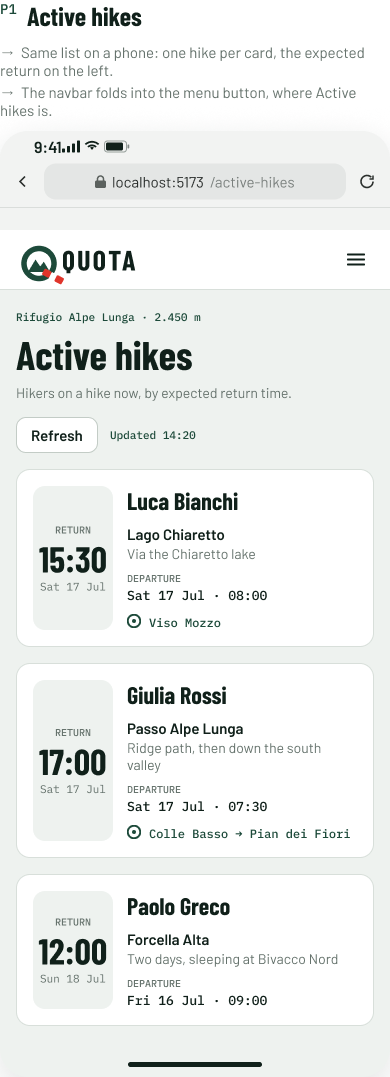
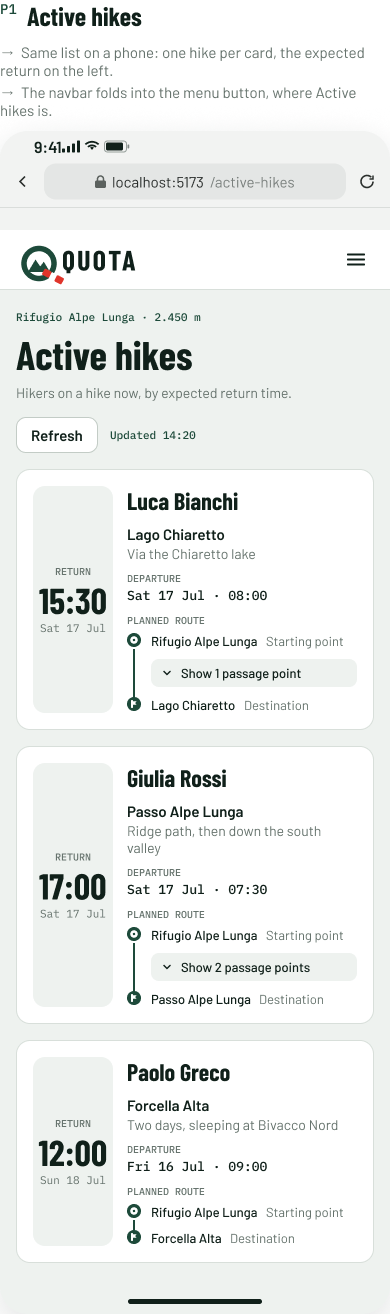
feat: modified view on passage points error message now outside of card

diff --git a/docs/mockups/active-hikes/README.md b/docs/mockups/active-hikes/README.md
@@ -9,7 +9,7 @@ One new page, **Active hikes**, lists the hikes in progress of all hikers. It is
 **Figma (source of truth):** page *MH-21 View active hikes* in [Mountain Hut – Mockups (Team 16)](https://www.figma.com/design/VlTombwHX1DQ7yB2x4U5Yx?node-id=786-23191). Every element is an instance from the *Components* page. Most of them are already used by the [slots mockup](../slots/README.md), the [register a hike mockup](../register-a-hike/README.md) and the [booking](../booking/README.md) mockup: button, alert, trail blaze, route icon and the phone bars. This story adds:
 
 - *Navbar / Staff with Active hikes*: the staff navbar with a fourth link, **Active hikes**, after *The hut*, *Slots & tables* and *Reservations*. Variants: `Role` (Employee, Warden). It is a separate navbar for this page: the shared *Navbar / Logged in* is not changed.
-- *Active hike card*: one hike of the list. Variants: `Size` (Desktop, Phone). It shows the expected return on the left, then the hiker, the destination, the route, the departure and the passage points.
+- *Active hike card*: one hike of the list. Variants: `Size` (Desktop, Phone) and `State` (Collapsed, Expanded). It shows the expected return on the left, then the hiker, the destination, the route, the departure and the **planned route**: the start, the destination and, between them, a line *Show N passage points* that opens the list. It is the same planned route as on the [My hikes](../register-a-hike/README.md) card of the hiker.
 
 Same QUOTA brand, colours and fonts.
 
@@ -25,7 +25,7 @@ Everything shown comes from the story or from the product owner's answers. Nothi
 | Product owner, [#53](https://github.com/SE2-Polito/AY26-27-Mountain-Hut/issues/53) | A hike is considered started at its planned departure time. A hiker who decides not to leave declares the hike finished with MH-22, even before it starts. |
 | Team decision (not yet confirmed by the product owner) | **Active** means: from the planned departure time until the hiker declares the hike finished. A hike that has not started is not listed. A hike past its expected return time stays listed until it is finished. |
 | Team decision (not yet confirmed by the product owner) | The hikes are listed by expected return time, the soonest first. |
-| Team decision (not yet confirmed by the product owner) | Each hike shows the hiker's name, the expected return (time and day), the destination, the route, the departure and the passage points in order. A hike without passage points shows none. |
+| Team decision (not yet confirmed by the product owner) | Each hike shows the hiker's name, the expected return (time and day), the destination, the route, the departure and the planned route (start, passage points, destination), with the passage points hidden behind a line *Show N passage points*, as on the hiker's page. A hike without passage points shows none. |
 | Team decision (not yet confirmed by the product owner) | The warden is an extension of the employee (as on [Slots & tables](../slots/README.md)): the same page, with the same navbar link. The first part only for the warden is MH-25. The page is reached from a new navbar link, *Active hikes*, after *Reservations*. |
 | Team decision (not yet confirmed by the product owner) | The list **refreshes by itself every 5 minutes** and has a **Refresh** button that updates it at once. A line says when it was last updated. A failed refresh keeps the list as it was. |
 | Team decision | The page is read only. Marking a hike as completed by the staff (MH-30), the alerts for late hikers (MH-24, MH-26) and the emergency details (MH-25) are other stories. |
@@ -36,8 +36,8 @@ Everything shown comes from the story or from the product owner's answers. Nothi
 2. Each hike is a card. On the left the **expected return**: the time, and under it the day. On the right the hiker's name, the destination with the route, the departure (day and time) and the passage points in order, joined by arrows.
 3. A hike stays on the list until the hiker declares it finished with MH-22. So a hike that is past its expected return time is still listed, in its place by expected return time.
 4. With no hike in progress, the page says so (screen 2).
-5. A hike with many passage points shows all of them, in a line that wraps. The card grows and nothing is cut (screen 3).
-6. If the list cannot be loaded, a red note says so (screen 4).
+5. The passage points of a hike are hidden behind *Show N passage points*, between the start (the hut) and the destination. Pressing it opens the whole list, in order, one under the other (screen 3), and the line says *Hide N passage points*. With many points the card grows only while the list is open.
+6. If the list cannot be loaded, a red note says so (screen 4). The note stands on the page, not inside a white card.
 
 The only button is **Refresh**, next to the time of the last update (*Updated 14:20*). The list also refreshes by itself every 5 minutes, and the time of the update changes with it. If a refresh fails, the list stays as it was and the red note of screen 4 is shown above it. The cards have no buttons.
 
@@ -47,7 +47,7 @@ The only button is **Refresh**, next to the time of the last update (*Updated 14
 |---|---|---|
 | 1 | Active hikes | ![Active hikes](01-active-hikes.png) |
 | 2 | No active hikes | ![No active hikes](02-no-active-hikes.png) |
-| 3 | A hike with many passage points | ![Many passage points](03-many-passage-points.png) |
+| 3 | A hike with many passage points, opened | ![Many passage points](03-many-passage-points.png) |
 | 4 | The list does not load | ![The list does not load](04-list-does-not-load.png) |
 
 ### On a phone
@@ -56,7 +56,7 @@ This is the same website in a phone browser, not a separate app. Below 992 px (r
 
 - The page becomes one column.
 - The navbar folds into the menu button, where *Active hikes* is.
-- In a card, the route goes under the destination, and the passage points wrap.
+- In a card, the route goes under the destination, and the planned route is as wide as the card.
 
 | # | Screen | Image |
 |---|---|---|
@@ -79,7 +79,7 @@ The list with many passage points and the error are the same as on a computer.
 | Hiker | The name of the hiker who registered the hike. |
 | Destination, route | The destination in bold, the route description after it (under it on a phone). |
 | Departure | Day and time (*Sat 17 Jul · 07:30*). |
-| Passage points | In order, separated by an arrow (*Colle Basso → Pian dei Fiori*). All of them are shown, on as many lines as needed. A hike without passage points shows none. |
+| Planned route | The start (*Rifugio Alpe Lunga*, *Starting point*), then, when the hike has passage points, a line *Show N passage points* (closed by default), then the destination (*Destination*). Opened, the line says *Hide N passage points* and the points are listed in order, one under the other, each with its icon. A hike without passage points has no such line. |
 | Buttons | None. |
 
 ## Texts and answers
@@ -121,6 +121,6 @@ Only MH-20 and MH-21 are built in this sprint, so nobody can yet declare a hike 
 - **Active** = the planned departure time has passed **and** the hike is not finished. The list of this page asks exactly this.
 - MH-22 (the hiker) and MH-30 (the employee) only fill the *finished* mark: the hike leaves the list at the next refresh, and this page does not change.
 - MH-24 and MH-26 look at the same hikes (active, past the expected return time) and add the alerts. MH-27 changes the route or the expected return of a hike: the list shows the new values at the next refresh.
-- With only MH-20 and MH-21, a hike never leaves the list once it has started. For the demo it appears at the first refresh after its departure time, and it stays. The server already has a clock (`server/src/clock.js`) that can be moved in the tests and in the demo, so a hike can be shown starting without waiting.
+- With only MH-20 and MH-21, a hike never leaves the list once it has started. A hiker cannot register a hike in the past (MH-20), so for the demo a hike is registered with a departure a few minutes ahead: it appears at the first refresh after its departure time, and it stays. The server already has a clock (`server/src/clock.js`) that can be moved in the tests and in the demo, so a hike can be shown starting without waiting.
 
 The names, hikes, days and times of the screens are examples. Sample data (hut, names, dates) is invented for the mockup.
